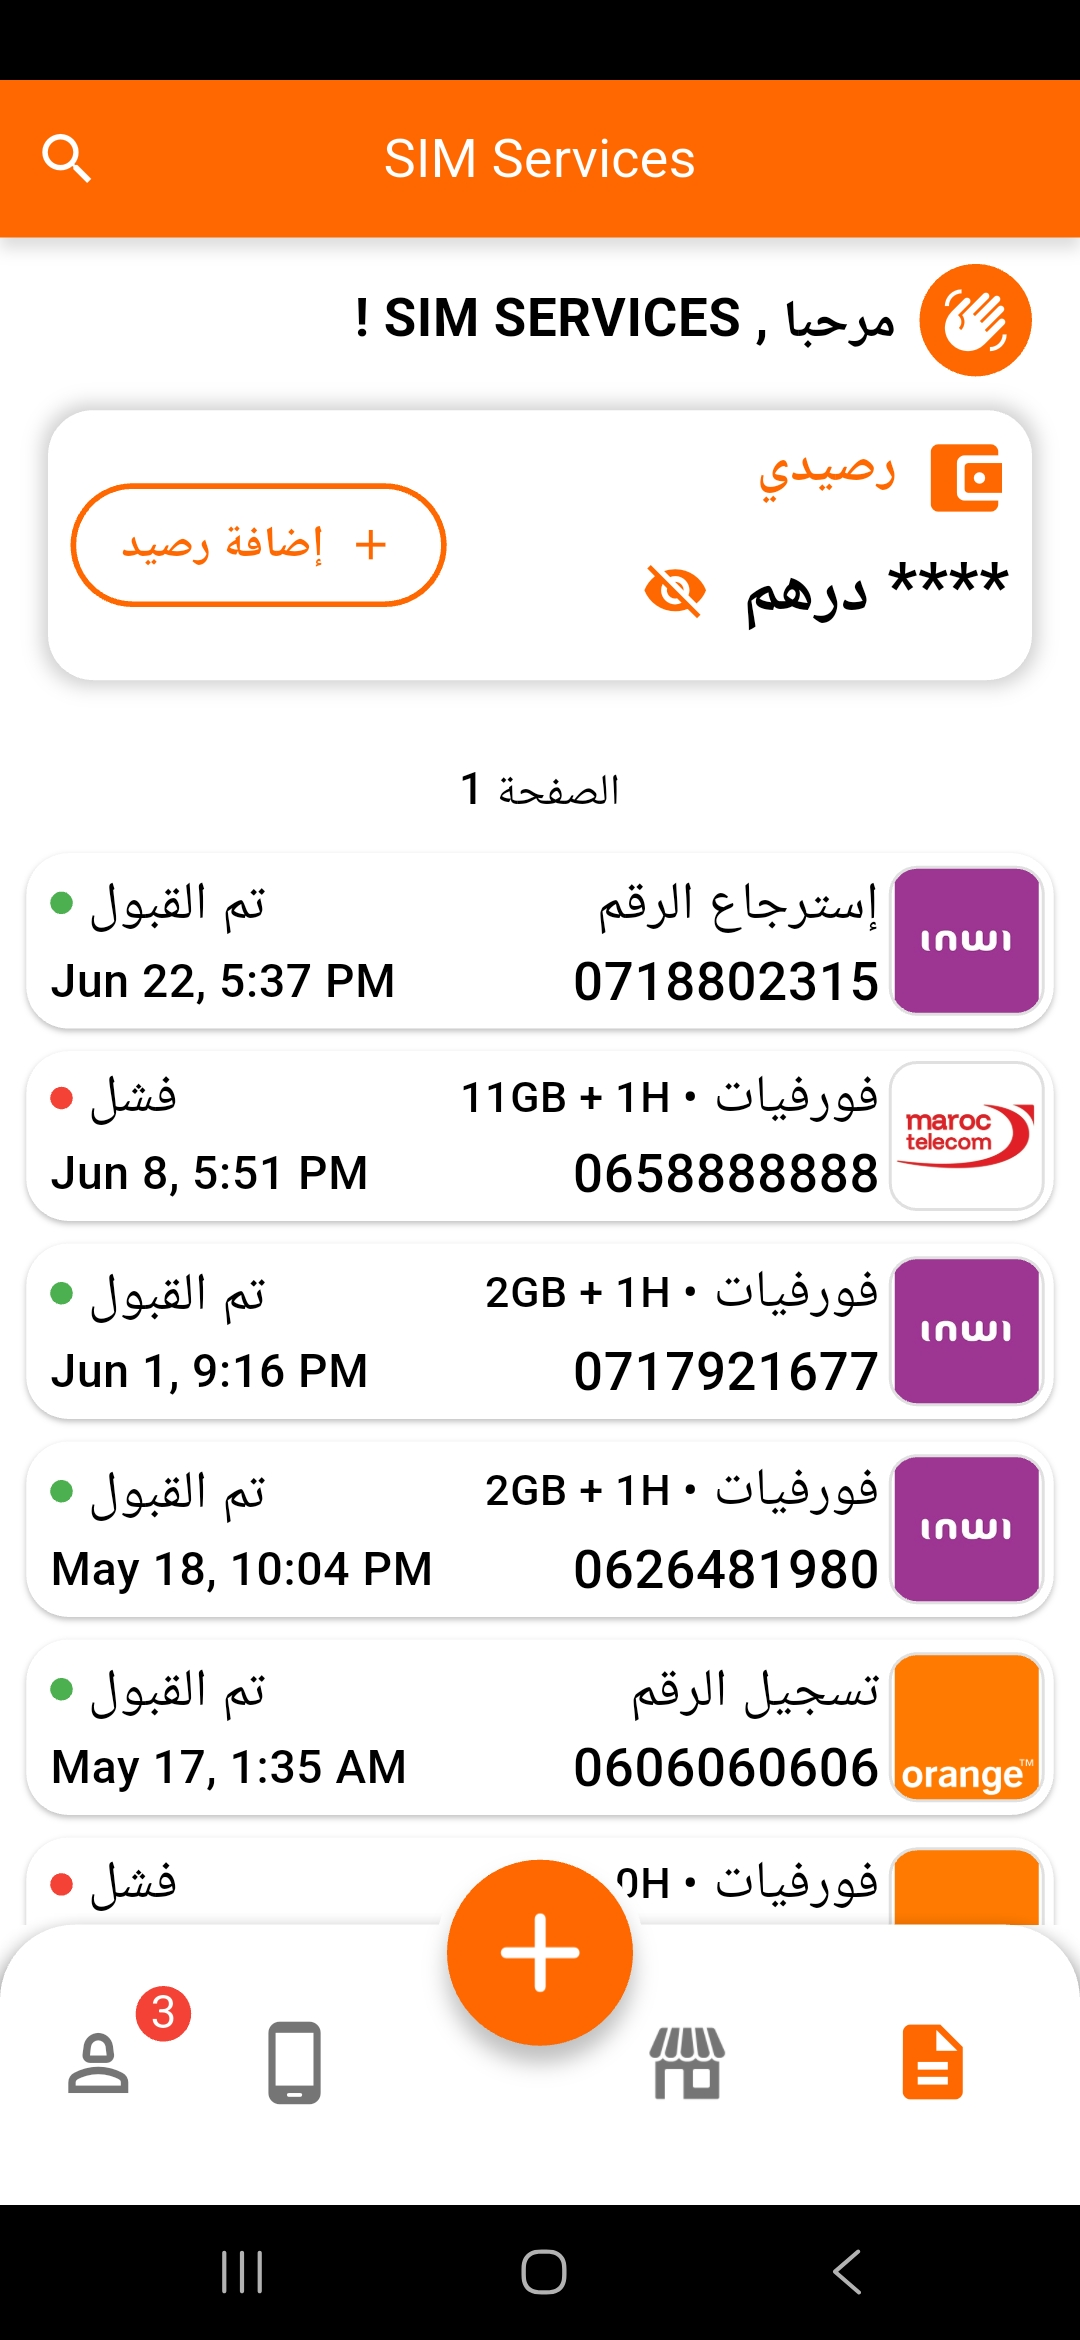
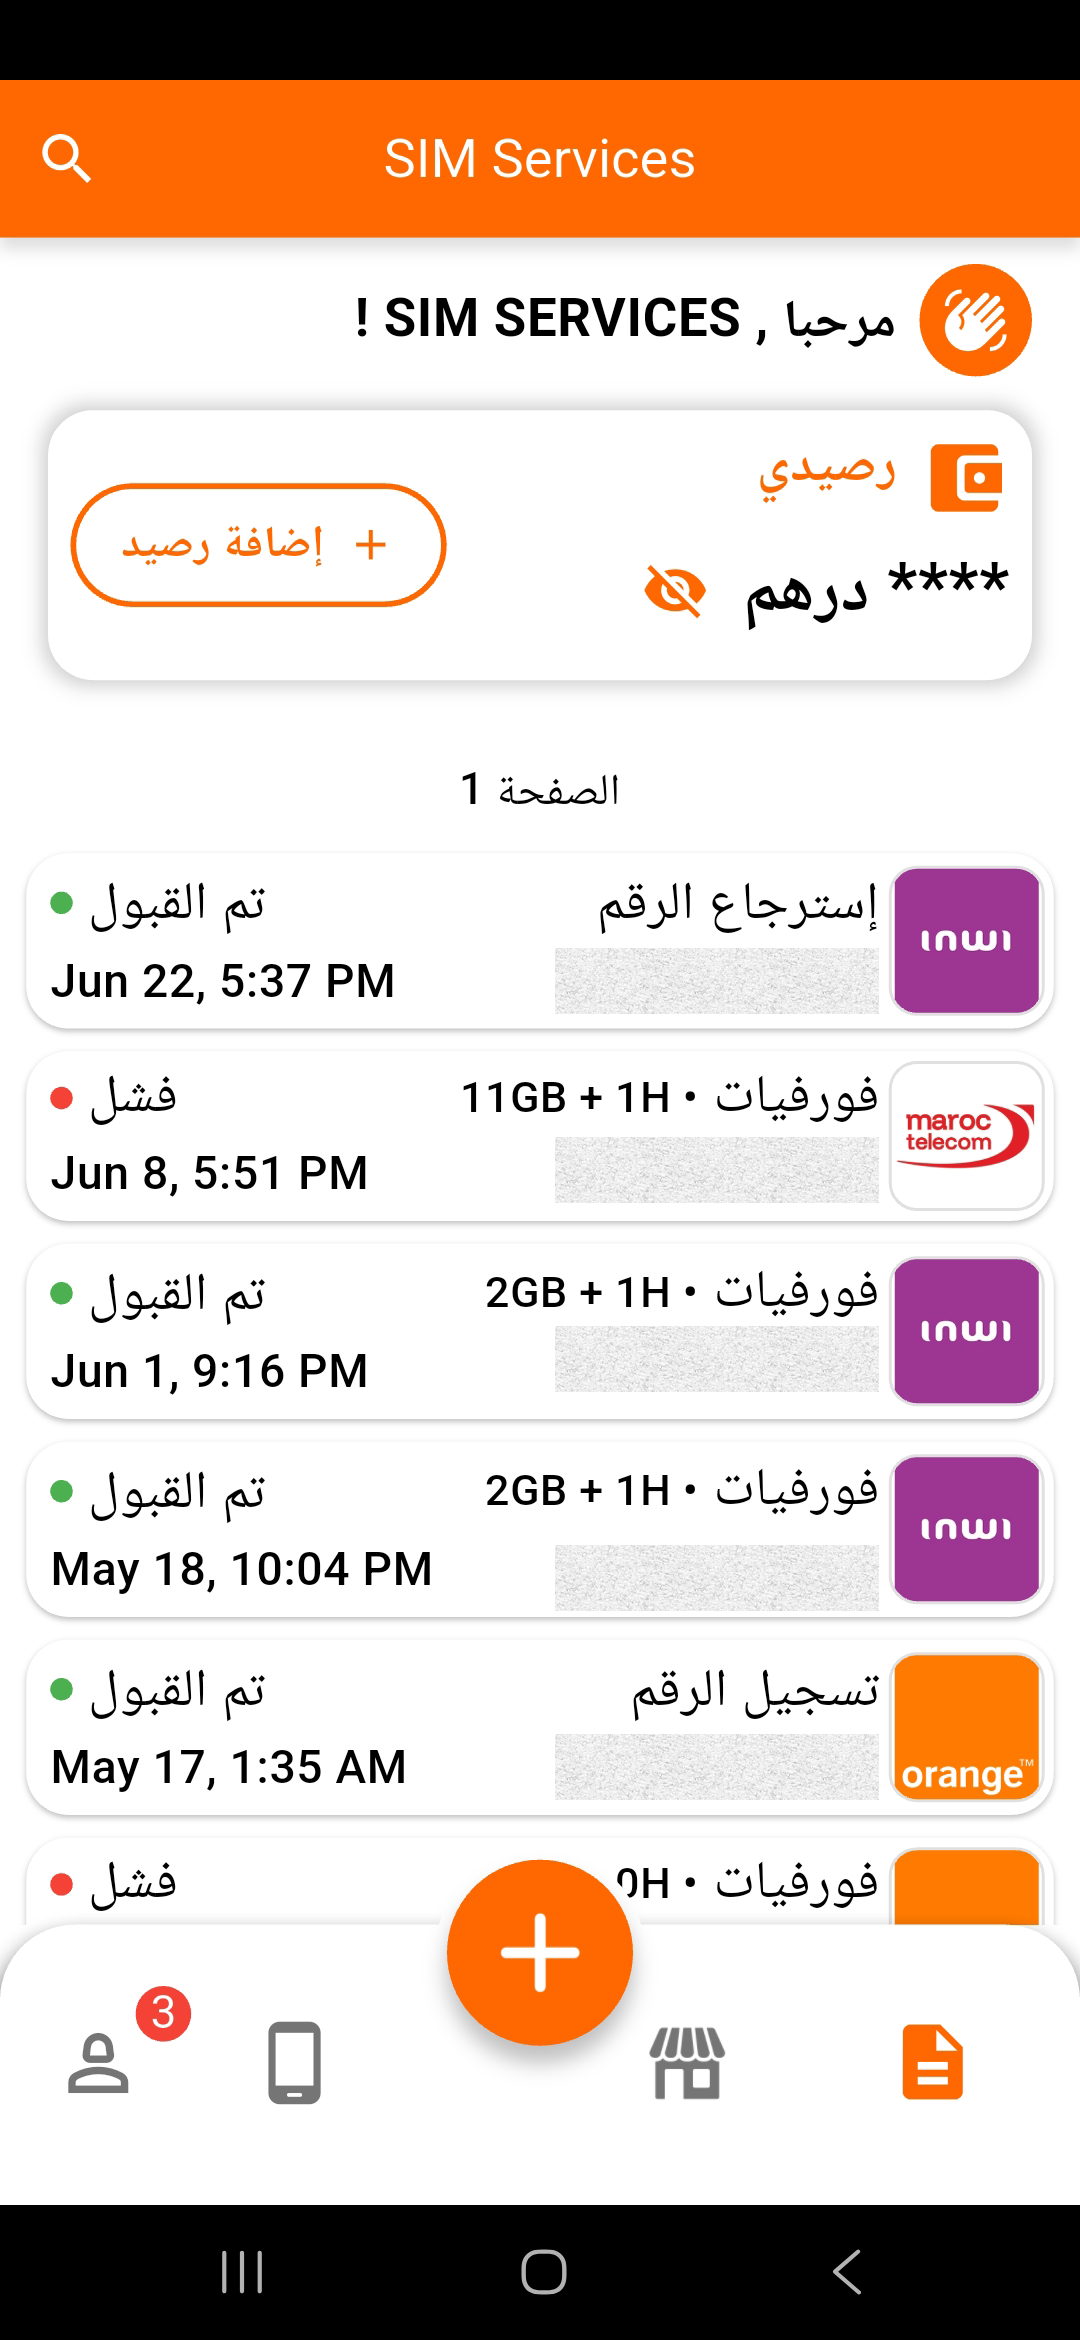
Update landing page design

diff --git a/src/routes/index.tsx b/src/routes/index.tsx
@@ -257,9 +257,8 @@ function Hero() {
 function PhoneFrame({ src, highlight = false }: { src: string; highlight?: boolean }) {
   return (
     <div
-      className={`relative overflow-hidden rounded-[2.2rem] border border-border/80 bg-card p-1.5 ${
-        highlight ? "shadow-phone" : "shadow-soft"
-      }`}
+      className={`relative overflow-hidden rounded-[2.2rem] border border-border/80 bg-card p-1.5 ${highlight ? "shadow-phone" : "shadow-soft"
+        }`}
     >
       <div className="overflow-hidden rounded-[1.8rem]">
         <img src={src} alt="App screen" className="block h-auto w-full" loading="lazy" />